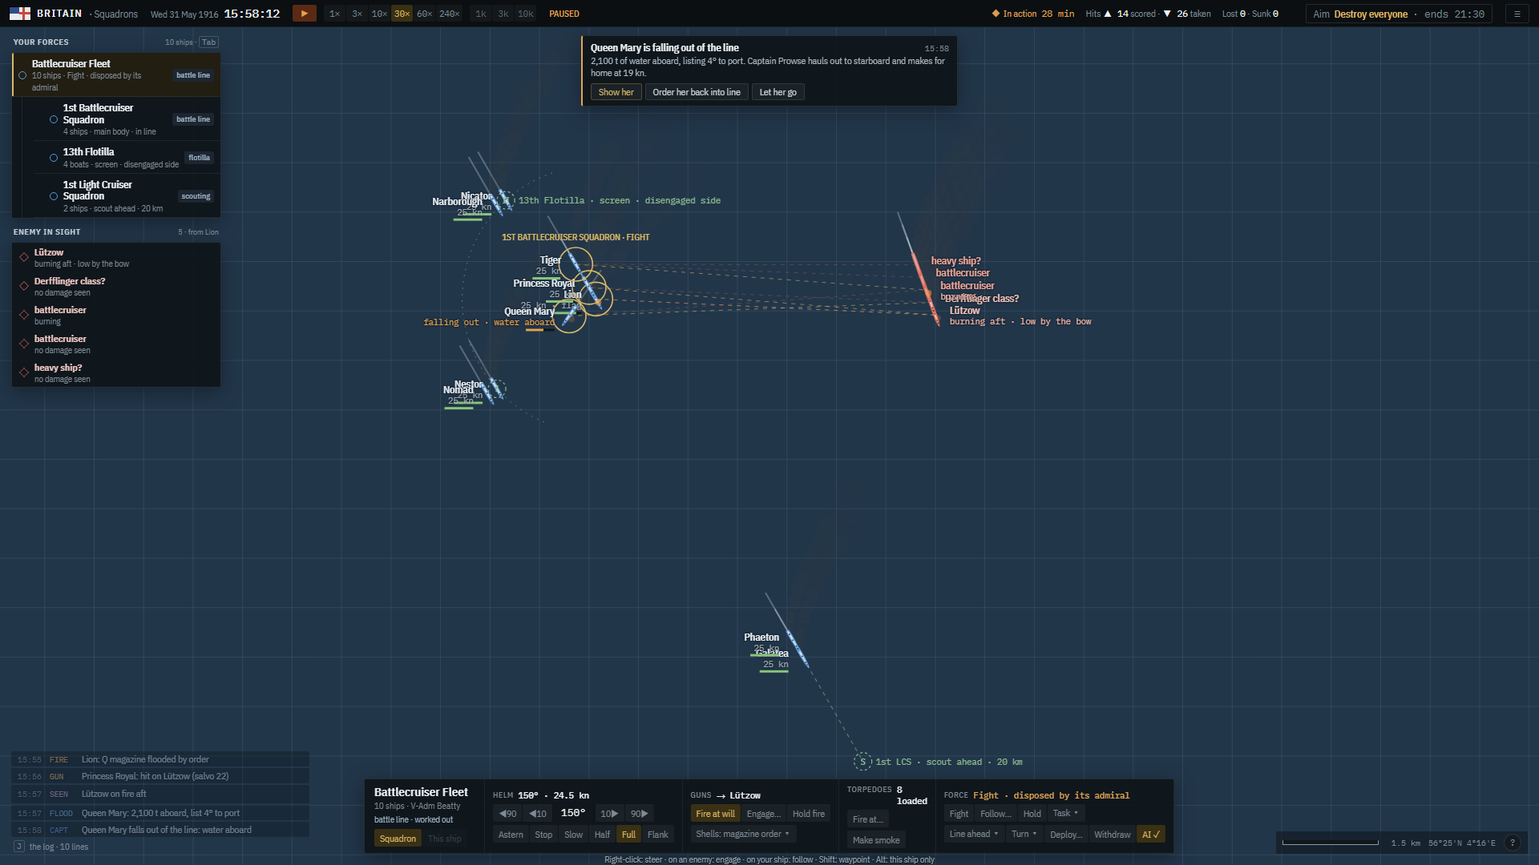
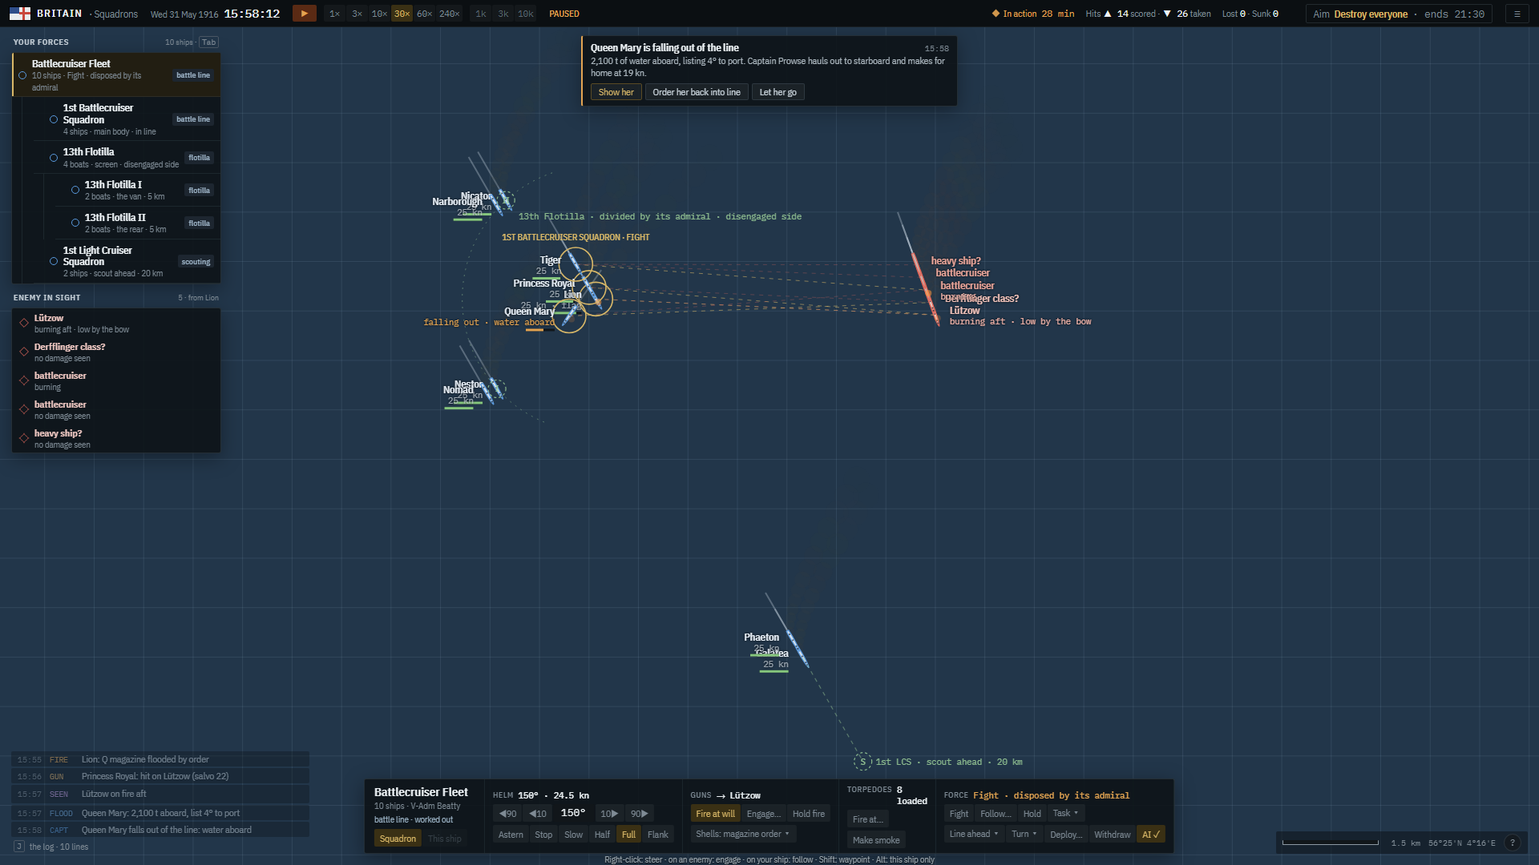
Admiral's orders O8b: the mockup's organise column and several squadrons at once
battle.html #organise (divide, divide from her, merge, new squadron of
selected, form a force with selected, leave its force), #multi (Screen with
two squadrons selected: each its station on the arc, in the order they lie);
#screen (one squadron by hand: one station on the bearing) and #chain (the
flotilla's divisions in the rail) redone.

diff --git a/docs/map-ui/battle.html b/docs/map-ui/battle.html
@@ -282,13 +282,15 @@ table.t tr.out td{color:var(--muted)}
 #help td:first-child{font-family:'Plex Mono';font-size:11px;color:var(--brass);white-space:nowrap;width:190px}
 #states{position:absolute;right:14px;top:40px;z-index:60;display:none}
 /* ---------- the admiral's orders (docs/battle/admirals-orders.md O8): the task menu, roles, the chain ---------- */
-#taskmenu{left:50%;bottom:118px;transform:translateX(-50%);display:none;flex-direction:column;width:640px;z-index:45}
+#taskmenu{left:50%;bottom:118px;transform:translateX(-50%);display:none;flex-direction:column;width:860px;z-index:45}
 #taskmenu.on{display:flex}
 #taskmenu.docked{left:400px;transform:none}
 .tmh{display:flex;align-items:center;gap:8px;padding:7px 12px 6px;border-bottom:1px solid var(--line);font-size:10px;letter-spacing:.08em;text-transform:uppercase;color:var(--muted)}
 .tmh .seg{margin-left:4px}
 .tmh .wo{margin-left:auto;text-transform:none;letter-spacing:0;font-size:10.5px}
-.tcols{display:grid;grid-template-columns:repeat(3,1fr)}
+.tcols{display:grid;grid-template-columns:repeat(3,1fr) 1.1fr}
+.tcol.org{background:rgba(255,255,255,.025)}
+.tcol.org h6{color:#9fb6c9}
 .tcol{padding:7px 10px 8px;border-right:1px solid var(--line);display:flex;flex-direction:column;gap:2px}
 .tcol:last-child{border-right:none}
 .tcol h6{margin:0 0 3px;font-size:9.5px;letter-spacing:.08em;text-transform:uppercase;color:var(--brass);font-weight:500;display:flex;gap:6px}
@@ -773,7 +775,7 @@ function strip() {
   const T = s.target && byId(s.target);
   const bells = ['Astern', 'Stop', 'Slow', 'Half', 'Full', 'Flank'];
   el.innerHTML = `
-    <div class="sid"><b>${sel.kind === 'group' ? G.name : s.name}</b><span>${sel.kind === 'group' ? `${G.ships.length} ships · ${G.admiral}` : s.cls}</span>
+    <div class="sid"><b>${sel.kind === 'group' ? (others.length ? `${G.short} + ${others.length} more` : G.name) : s.name}</b><span>${sel.kind === 'group' ? (others.length ? `${others.length + 1} squadrons · orders go to each` : `${G.ships.length} ships · ${G.admiral}`) : s.cls}</span>
       ${grp && G.role ? `<span class="role ${G.roleSet ? 'set' : ''}" data-task title="what it's for: how its admiral and its commander use it; T opens the task menu to set it">${ROLES[G.role]}${G.roleSet ? '' : ' · worked out'}</span>` : ''}
       <div class="to seg" title="Alt+order: this ship only"><button class="${grp ? 'on' : ''}" data-to="group">Squadron</button><button class="${grp ? '' : 'on'}" data-to="ship" ${sel.kind === 'group' ? 'disabled' : ''}>This ship</button></div></div>
     <div class="oc"><h5>Helm <span class="v">${s.hdg.toFixed(0).padStart(3, '0')}° · ${s.kn.toFixed(1)} kn</span></h5>
@@ -1090,11 +1092,19 @@ const TASKS = {
   patrol:    { col: 2, name: 'Patrol…',    key: 'P', verb: 'PATROL',    click: "click the line's far end", tip: 'up and down from here to there' },
   search:    { col: 2, name: 'Search…',    key: 'E', verb: 'SEARCH',    click: 'click the sea; drag the area', tip: 'a scouting line spaced by the visibility, a ladder about the point; done on contact' },
   withdraw:  { col: 2, name: 'Withdraw',   key: 'W', verb: 'WITHDRAW',  click: '', tip: 'break off and go home, away from any enemy first' },
+  // organising (O1c): not orders to the unit but changes to it, the player's as its admirals' own
+  divide:    { col: 3, name: 'Divide in two',      key: 'D', verb: 'DIVIDE',  click: '', tip: 'two divisions under its admiral: its own squadrons, each to sail and fight as one; the unit keeps its name and orders' },
+  dividefrom:{ col: 3, name: 'Divide from her…',   key: 'V', verb: 'DIVIDE FROM', click: 'click a ship of it: she and those astern of her the second division', tip: 'two divisions, split where you choose' },
+  merge:     { col: 3, name: 'Merge divisions',    key: 'M', verb: 'MERGE',   click: '', tip: 'its divisions back into one squadron, the same unit' },
+  newsq:     { col: 3, name: 'New squadron of selected', key: 'Q', verb: 'NEW SQUADRON', click: '', tip: 'the ships you selected (ctrl+click) out of their squadrons into a new one; its admiral the senior captain' },
+  formforce: { col: 3, name: 'Form a force with selected', key: 'K', verb: 'FORM', click: '', tip: 'this unit and the squadrons you selected (ctrl+click) under one admiral, this one guiding' },
+  leave:     { col: 3, name: 'Leave its force',    key: 'L', verb: 'LEAVE',   click: '', tip: "out of its force: on its own, the side's commander's to use" },
   deploy:    { col: -1, verb: 'DEPLOY', click: 'click where the line should steer, or the enemy (across his course)' },
 };
 const TASK_KEYS = Object.fromEntries(Object.entries(TASKS).filter(([, t]) => t.key).map(([k, t]) => [t.key, k]));
-const COLS = [['One of ours', 'click your ship'], ['The enemy', 'click an enemy'], ['A place', 'click the sea']];
+const COLS = [['One of ours', 'click your ship'], ['The enemy', 'click an enemy'], ['A place', 'click the sea'], ['Organise', 'this unit']];
 let lightIn = false, taskOpen = false, chainView = false, preview = null;
+let others = [];   // squadrons selected with it (ctrl+click): orders go to each, a screen spreads them on the arc
 
 /** The group a selection stands for: the group selected, else the selected ship's squadron (the first group if none). */
 function unitOf(sl) {
@@ -1107,26 +1117,36 @@ function disabledTask(k) {
   const G = unitOf(sel);
   if (k === 'attack' && G.role !== 'flotilla') return "a flotilla's: set it as one to send it in";
   if (k === 'join' && G.force) return 'a force has nothing above it to join here';
+  if ((k === 'divide' || k === 'dividefrom') && (G.force || G.ships.length < 2)) return G.force ? 'a force: divide one of its squadrons' : 'one ship';
+  if (k === 'merge' && !(G.force && groups.some(g => g.div))) return 'no divisions to merge';
+  if (k === 'formforce' && !others.length) return 'ctrl+click the squadrons to form it with';
+  if (k === 'newsq' && !others.length) return 'ctrl+click the ships';
+  if (k === 'leave' && G.id !== 'g2' && G.id !== 'g3' && G.id !== 'g4') return 'in no force';
   return '';
 }
+/** The units an order goes to: the one selected and those ctrl+clicked with it. */
+function selection() { return [unitOf(sel), ...others.map(id => groups.find(g => g.id === id)).filter(Boolean)]; }
 function taskMenu() {
   const el = $('taskmenu');
   el.classList.toggle('docked', $('dock').classList.contains('on'));
   if (!taskOpen || !sel || sel.kind === 'ship' && byId(sel.id).side) { el.classList.remove('on'); return; }
   el.classList.add('on');
   const G = unitOf(sel);
-  const cols = COLS.map(([title, how], c) => `<div class="tcol"><h6>${title} <span>${how}</span></h6>${Object.entries(TASKS).filter(([, t]) => t.col === c).map(([k, t]) => {
+  const cols = COLS.map(([title, how], c) => `<div class="tcol ${c === 3 ? 'org' : ''}"><h6>${title} <span>${how}</span></h6>${Object.entries(TASKS).filter(([, t]) => t.col === c).map(([k, t]) => {
     const why = disabledTask(k);
     return `<button data-t="${k}" ${why ? 'disabled' : ''} title="${t.tip}">${t.name}<i>${t.key}</i></button>${why ? `<div class="why">${why}</div>` : ''}`;
   }).join('')}</div>`).join('');
-  el.innerHTML = `<div class="tmh"><b style="color:var(--bright)">${G.short}</b> what it's for
+  const many = selection().length > 1;
+  el.innerHTML = `<div class="tmh"><b style="color:var(--bright)">${many ? selection().map(u => u.short).join(' + ') : G.short}</b> what it's for
       <span class="seg">${Object.keys(ROLES).map(r => `<button class="${G.role === r ? 'on' : ''}" data-r="${r}">${ROLES[r]}</button>`).join('')}</span>
       <span class="wo ${G.roleSet ? 'gold' : ''}">${G.roleSet ? 'set by you · <u data-r="auto" style="cursor:pointer">work it out</u>' : 'worked out from its ships'}</span></div>
     <div class="tcols">${cols}</div>
-    <div class="tmf">Its admiral carries it out: stations, turns, the counter-attack, when it's done, and reports how it stands. A task of yours holds the unit (yours, not the commander's) until you hand it back. Letters pick while this is open; T or Esc shuts it.</div>`;
+    <div class="tmf">${many ? `An order goes to each of the ${selection().length}: Screen spreads them over the arc, one station each. ` : ''}Its admiral carries an order out: stations, turns, the counter-attack, when it's done, and reports how it stands. A task of yours holds the unit (yours, not the commander's) until you hand it back. Organising changes the unit itself, as its admirals may. Letters pick while this is open; T or Esc shuts it.</div>`;
   for (const b of el.querySelectorAll('[data-t]')) b.onclick = () => {
     armed = b.dataset.t; taskOpen = false;
-    if (armed === 'withdraw') { tick('sig', `${G.short}: withdraw, home`, G.ships[0]); armed = null; }
+    const done = { withdraw: 'withdraw, home', divide: 'divided in two divisions, I and II', merge: 'its divisions merged', newsq: 'a new squadron of the ships selected',
+      formforce: `a force with ${others.length} more, it guiding`, leave: 'out of its force' }[armed];
+    if (done) { tick('sig', `${G.short}: ${done}`, G.ships[0]); armed = null; }
     strip();
   };
   for (const b of el.querySelectorAll('[data-r]')) b.onclick = () => {
@@ -1144,7 +1164,11 @@ function taskVerb(p, s, me) {
   if (t.col === 0) {
     if (!s || s.side) { preview = null; return `<b class="amb">${t.verb}</b> <span class="dim">${t.click}</span>`; }
     const U = unitOf({ kind: 'ship', id: s.id });
-    if (armed === 'screen') { preview = { kind: 'screen', on: s.id }; return `<b class="okc">SCREEN</b> ${U.short} · 5 km · split 4 points · <span class="amb">disengaged side</span>`; }
+    if (armed === 'screen') {
+      const n = selection().length;
+      preview = { kind: 'screen', on: s.id };
+      return `<b class="okc">SCREEN</b> ${U.short} · 5 km · ${n === 1 ? 'on the bearing' : n === 2 ? '2 squadrons, either bow' : `${n} squadrons over the arc`} · <span class="amb">disengaged side</span>`;
+    }
     if (armed === 'scout') { preview = { kind: 'scout', on: s.id }; return `<b class="okc">SCOUT</b> for ${U.short} · 20 km ahead`; }
     preview = null;
     return `<b class="okc">${t.verb}</b> ${armed === 'follow' ? s.name : U.short}${armed === 'cover' ? ' · 9 km toward the threat' : ''}`;
@@ -1167,10 +1191,11 @@ function taskVerb(p, s, me) {
 /** A screen's two divisions' stations about the ship it screens: 45° either side of the bearing it screens on, 5 km
  *  out. Against the 1st Scouting Group (no match for it, its admiral judges) the bearing is away from him: the
  *  disengaged side, a division at the van and one at the rear. */
-function screenStations(onId) {
+function screenStations(onId, n = 2) {
   const T = byId(onId), E = byId(5);
   const axis = Math.atan2(E.x - T.x, -(E.y - T.y)) / deg + 180;
-  return [-45, 45].map(off => { const b = (axis + off) * deg; return { x: T.x + Math.sin(b) * 5000, y: T.y - Math.cos(b) * 5000, b: axis + off }; });
+  return Array.from({ length: n }, (_, i) => n === 1 ? 0 : -45 + 90 * i / (n - 1))
+    .map(off => { const b = (axis + off) * deg; return { x: T.x + Math.sin(b) * 5000, y: T.y - Math.cos(b) * 5000, b: axis + off }; });
 }
 function ghost(x, y, text, col) {
   cx.strokeStyle = col; cx.setLineDash([3, 3]); cx.lineWidth = 1.2; cx.beginPath(); cx.arc(SX(x), SY(y), 11, 0, 7); cx.stroke(); cx.setLineDash([]);
@@ -1179,18 +1204,27 @@ function ghost(x, y, text, col) {
 /** Orders as marks on the map: a screen's arc and its divisions' stations, a scout's station, a deploy's line. */
 function taskMarks() {
   const green = 'rgba(159,209,154,.85)', faint = 'rgba(159,209,154,.45)';
-  const screenFor = (G, onId, note) => {
-    const st = screenStations(onId), T = byId(onId);
+  // a screen's stations on the arc: one a unit (screens: [{ unit, label }]), each dashed from where it is
+  const screenFor = (screens, onId, note) => {
+    const st = screenStations(onId, screens.length), T = byId(onId), n = st.length;
     cx.strokeStyle = faint; cx.setLineDash([2, 6]); cx.lineWidth = 1;
-    cx.beginPath(); cx.arc(SX(T.x), SY(T.y), 5000 / MPP, (st[0].b - 90 - 25) * deg, (st[1].b - 90 + 25) * deg); cx.stroke(); cx.setLineDash([]);
+    cx.beginPath(); cx.arc(SX(T.x), SY(T.y), 5000 / MPP, (st[0].b - 90 - 25) * deg, (st[n - 1].b - 90 + 25) * deg); cx.stroke(); cx.setLineDash([]);
     st.forEach((p, i) => {
-      ghost(p.x, p.y, i ? 'II' : 'I', green);
-      const from = byId(G.ships[i ? G.ships.length - 1 : 0]);
+      ghost(p.x, p.y, screens[i].label, green);
+      const from = byId(screens[i].unit.ships[0]);
       cx.strokeStyle = faint; cx.setLineDash([5, 5]); cx.beginPath(); cx.moveTo(SX(from.x), SY(from.y)); cx.lineTo(SX(p.x), SY(p.y)); cx.stroke(); cx.setLineDash([]);
+      if (n > 1 && screens[i].name) { cx.font = '10px "Plex Mono"'; cx.fillStyle = green; cx.fillText(screens[i].name, SX(p.x) + 15, SY(p.y) - 8); }
     });
-    if (note) { cx.font = '10.5px "Plex Mono"'; cx.fillStyle = green; cx.fillText(note, SX(st[1].x) + 16, SY(st[1].y) + 4); }
+    if (note) { cx.font = '10.5px "Plex Mono"'; cx.fillStyle = green; cx.fillText(note, SX(st[n - 1].x) + 16, SY(st[n - 1].y) + 24); }
   };
-  if (preview && preview.kind === 'screen') screenFor(unitOf(sel), preview.on, 'disengaged side: no match for the 1st SG · van and rear');
+  if (preview && preview.kind === 'screen') {
+    // the stations taken in the order the screens lie about the bearing (the sim's rule: none crosses another)
+    const T = byId(preview.on), E = byId(5), axis = Math.atan2(E.x - T.x, -(E.y - T.y)) / deg + 180;
+    const lies = u => { const a = byId(u.ships[0]); return ((Math.atan2(a.x - T.x, -(a.y - T.y)) / deg - axis) % 360 + 540) % 360 - 180; };
+    const sel2 = selection().sort((a, b) => lies(a) - lies(b));
+    screenFor(sel2.map((u, i) => ({ unit: u, label: String(i + 1), name: u.short })), preview.on,
+      sel2.length === 1 ? 'one station, on the bearing (yours, by hand: divide it first for both bows)' : 'disengaged side: no match for the 1st SG · van and rear');
+  }
   if (preview && preview.kind === 'scout') { const T = byId(preview.on), b = T.hdg * deg; ghost(T.x + Math.sin(b) * 20000, T.y - Math.cos(b) * 20000, 'S', green); }
   if (preview && preview.kind === 'deploy') {
     const L = byId(1), b = preview.course * deg;
@@ -1204,7 +1238,7 @@ function taskMarks() {
     cx.fillText(`the line of battle, ${String(preview.course).padStart(3, '0')}° · formed in ~14 min`, SX(L.x + Math.sin(b) * 6400) + 10, SY(L.y - Math.cos(b) * 6400));
   }
   if (chainView) {   // what each squadron of the force does, and where its station is
-    screenFor(groups.find(g => g.id === 'g2'), 1, '13th Flotilla · screen · disengaged side');
+    screenFor(groups.filter(g => g.div).map(d => ({ unit: d, label: d.short })), 1, '13th Flotilla · divided by its admiral · disengaged side');
     const L = byId(1), b = L.hdg * deg, sx = L.x + Math.sin(b) * 20000, sy = L.y - Math.cos(b) * 20000, c = byId(14);
     ghost(sx, sy, 'S', green);
     cx.strokeStyle = faint; cx.setLineDash([5, 5]); cx.beginPath(); cx.moveTo(SX(c.x), SY(c.y)); cx.lineTo(SX(sx), SY(sy)); cx.stroke(); cx.setLineDash([]);
@@ -1214,20 +1248,25 @@ function taskMarks() {
 /** The rail with the light forces in: the chain of command, each unit with its role and its task. */
 function railChain() {
   const F = groups.find(g => g.force), on = id => sel && sel.kind === 'group' && sel.id === id;
-  const row = (G, sub) => `<div class="gh ${on(G.id) ? 'sel' : ''}" data-g="${G.id}" ${sub ? 'style="padding-left:20px"' : ''}><span class="sym"></span>
+  const row = (G, sub) => `<div class="gh ${on(G.id) || others.includes(G.id) ? 'sel' : ''}" data-g="${G.id}" ${sub ? 'style="padding-left:20px"' : ''}><span class="sym"></span>
       <div class="nm"><b>${G.name}</b><span>${G.ships.length} ${G.role === 'flotilla' ? 'boats' : 'ships'} · ${G.taskLine || 'in line'}</span></div>
       <span class="chip role ${G.roleSet ? 'set' : ''}" title="${G.roleSet ? 'set by you' : 'worked out from its ships'}">${ROLES[G.role]}</span></div>`;
   let h = `<div class="rh"><b>Your forces</b><span class="r">${ships.filter(s => !s.side).length} ships · <span class="kbd">Tab</span></span></div>
     <div class="glass grp">${row(F, false)}<div class="tree">`;
-  for (const G of groups.filter(g => !g.force && !g.div)) {
+  for (const G of groups.filter(g => !g.force && !g.div && !g.alone)) {
     h += row(G, true);
     if (chainView && G.id === 'g2') h += `<div class="tree">${groups.filter(g => g.div).map(d => row(d, true)).join('')}</div>`;
   }
-  h += '</div></div><div class="rh" style="margin-top:4px"><b>Enemy in sight</b><span class="r">5 · from Lion</span></div><div class="glass grp">';
+  h += '</div>' + groups.filter(g => g.alone).map(g => row(g, false)).join('');
+  h += '</div><div class="rh" style="margin-top:4px"><b>Enemy in sight</b><span class="r">5 · from Lion</span></div><div class="glass grp">';
   for (const s of ships.filter(s => s.side === 1))
     h += `<div class="crow" data-s="${s.id}"><span class="sym ho ${known(s) ? '' : 'sus'}"></span><div class="nm"><b>${label(s)}</b><span class="s">${s.seen.length ? s.seen.join(' · ') : 'no damage seen'}</span></div></div>`;
   $('rail').innerHTML = h + '</div>';
-  for (const e of $('rail').querySelectorAll('[data-g]')) e.onclick = () => select({ kind: 'group', id: e.dataset.g });
+  for (const e of $('rail').querySelectorAll('[data-g]')) e.onclick = ev => {
+    const id = e.dataset.g;
+    if (ev.ctrlKey && sel && sel.kind === 'group' && id !== sel.id) { others = others.includes(id) ? others.filter(o => o !== id) : [...others, id]; refresh(); }
+    else { others = []; select({ kind: 'group', id }); }
+  };
   for (const e of $('rail').querySelectorAll('[data-s]')) e.onclick = () => select({ kind: 'ship', id: +e.dataset.s });
 }
 /** The light forces of the Battlecruiser Fleet for the task states: the 13th Flotilla and the 1st LCS, in a force with
@@ -1252,11 +1291,17 @@ function addLight(chain) {
     role: 'scout', auto: 'scout', roleSet: false, taskLine: chain ? 'scout ahead · 20 km' : '' });
   groups.push({ id: 'f', force: true, name: 'Battlecruiser Fleet', short: 'BCF', side: 0, ships: [1, 2, 3, 4, 10, 11, 12, 13, 14, 15], admiral: 'V-Adm Beatty', formation: 'Line abreast', spacing: 5000,
     role: 'heavy', auto: 'heavy', roleSet: false, taskLine: chain ? 'Fight · disposed by its admiral' : '' });
+  if (!chain) {   // the 1st Flotilla, on its own (no force's): for screening with the 13th
+    ['Acheron', 'Ariel', 'Attack', 'Hydra'].forEach((n, i) => put(16 + i, n, 'I class (1911)', 'destroyer', 75, ...at(L.hdg + 160, 2600 + i * 400)));
+    groups.push({ id: 'g4', alone: true, name: '1st Flotilla', short: '1st Flotilla', side: 0, ships: [16, 17, 18, 19], admiral: 'Capt. Roper', formation: 'Line abreast', spacing: 400,
+      role: 'flotilla', auto: 'flotilla', roleSet: false, taskLine: '' });
+  }
   if (chain) groups.push(
     { id: 'g2a', div: true, name: '13th Flotilla I', short: 'I', side: 0, ships: [10, 11], admiral: '', role: 'flotilla', auto: 'flotilla', roleSet: false, taskLine: 'the van · 5 km' },
     { id: 'g2b', div: true, name: '13th Flotilla II', short: 'II', side: 0, ships: [12, 13], admiral: '', role: 'flotilla', auto: 'flotilla', roleSet: false, taskLine: 'the rear · 5 km' });
 }
 function removeLight() {
+  others = [];
   if (!lightIn) return;
   lightIn = false;
   for (let i = ships.length - 1; i >= 0; i--) if (ships[i].id >= 10) ships.splice(i, 1);
@@ -1272,14 +1317,16 @@ function taskState(h) {
   cardOpen = false;   // the card shut (V): the map and the orders
   if (h === 'tasks') { select({ kind: 'group', id: 'g1' }); taskOpen = true; }
   if (h === 'screen') { camX = L.x + 2500; camY = L.y + 700; select({ kind: 'group', id: 'g2' }); armed = 'screen'; }
+  if (h === 'multi') { camX = L.x + 2500; camY = L.y + 700; select({ kind: 'group', id: 'g2' }); others = ['g4']; armed = 'screen'; }
+  if (h === 'organise') { select({ kind: 'group', id: 'g2' }); others = ['g4']; taskOpen = true; }
   if (h === 'deploy') { camX = L.x + 5500; camY = L.y + 1500; select({ kind: 'group', id: 'f' }); armed = 'deploy'; }
   if (h === 'chain') { MPP = 30; camX = L.x + 6500; camY = L.y + 5000; select({ kind: 'group', id: 'f' }); chainView = true; }
-  cardOpen = false; card(); strip();
+  cardOpen = false; card(); rail(); strip();
   topBar(); strip();
-  if (h === 'screen' || h === 'deploy') {   // the cursor where the order would be given: over Lion; over the enemy van
-    const T = h === 'screen' ? L : byId(5), p = { x: SX(T.x), y: SY(T.y) }, G = unitOf(sel);
+  if (h === 'screen' || h === 'multi' || h === 'deploy') {   // the cursor where the order would be given: over Lion; over the enemy van
+    const T = h === 'deploy' ? byId(5) : L, p = { x: SX(T.x), y: SY(T.y) }, G = unitOf(sel);
     const verb = $('verb');
-    verb.innerHTML = `<span class="dim">${G.short}:</span> ${taskVerb(p, T, byId(G.ships[0]))}`;
+    verb.innerHTML = `<span class="dim">${others.length ? `${G.short} + ${others.length}` : G.short}:</span> ${taskVerb(p, T, byId(G.ships[0]))}`;
     verb.style.display = 'block'; verb.style.left = p.x + 16 + 'px'; verb.style.top = p.y - 22 + 'px';
   }
 }
@@ -1298,12 +1345,12 @@ function frame(t) {
 }
 
 // ------------------------------------------------------------------ states for screenshots: battle.html#ship, #enemy, #group, #pinned, #order, #log, #menu, #brief, #result, #dev, #help,
-// and the admiral's orders' (O8): #tasks, #screen, #deploy, #chain
+// and the admiral's orders' (O8, O8b): #tasks, #screen, #multi, #organise, #deploy, #chain
 function state(h) {
   for (const o of document.querySelectorAll('.shade.on')) o.classList.remove('on');
   $('dev').classList.remove('on'); $('logDrawer').classList.remove('open'); armed = null; pinned = []; orders.length = 0; MPP = 15; camX = 1900; camY = -650; sel = null;
   taskOpen = false; preview = null; chainView = false; removeLight(); $('verb').style.display = 'none';
-  if (['tasks', 'screen', 'deploy', 'chain'].includes(h)) { taskState(h); return; }
+  if (['tasks', 'screen', 'multi', 'organise', 'deploy', 'chain'].includes(h)) { taskState(h); return; }
   if (h === 'ship' || h === 'order' || h === 'arm') select({ kind: 'ship', id: 1 });
   if (h === 'enemy') select({ kind: 'ship', id: 5 });
   if (h === 'group') select({ kind: 'group', id: 'g1' });

diff --git a/docs/battle/admirals-orders.md b/docs/battle/admirals-orders.md
@@ -283,6 +283,24 @@ and order):
 For the review: the column names and keys, Station's drag, whether the menu sits above the strip or at the cursor, and
 the marks' look (placeholder green). The port (O9) follows the user's notes.
 
+### O8b The mockup again: organising, and several squadrons at once (2026-10-23, for review)
+
+After decision 6; `battle.html` `#organise` and `#multi` (screenshots `png/battle-organise.png`, `-multi`), `#screen` and
+`#chain` redone:
+
+- **`#organise`: the task menu's fourth column, Organise** (set apart, a lighter ground: these change the unit, they
+  aren't orders to it): Divide in two (D), Divide from her… (V: click a ship of it; she and those astern the second
+  division), Merge divisions (M), New squadron of selected (Q), Form a force with selected (K), Leave its force (L),
+  each greyed with its reason when it doesn't apply ("no divisions to merge").
+- **Several squadrons selected:** ctrl+click a squadron in the rail (or on the map) adds it to the selection; the strip
+  says "13th Flotilla + 1 more · 2 squadrons · orders go to each", the menu's head names them all, and its foot says
+  an order goes to each.
+- **`#multi`: Screen with two squadrons selected:** "SCREEN 1st BCS · 5 km · 2 squadrons, either bow · disengaged side";
+  the map shows each squadron's station on the arc, numbered and named, taken in the order they lie (the sim's rule).
+- **`#screen`: one squadron, by hand:** one station on the bearing, "yours, by hand: divide it first for both bows".
+- **`#chain`:** the flotilla divided by its own admiral, its divisions I and II under it in the rail ("the van · 5 km",
+  "the rear · 5 km").
+
 ## The steps
 
 | Step | What | Status |
@@ -296,7 +314,7 @@ the marks' look (placeholder green). The port (O9) follows the user's notes.
 | **O6** | A unit's role: worked out, or set by the player; the commander and the map read it (decision 4) | **done 2026-10-23** |
 | **O7** | The chain of command: a force's admiral disposes his members by role, one implementation with the commander's (decision 3) | **done 2026-10-23** |
 | **O8** | The mockup: `docs/map-ui/battle.html` `#tasks`, `#screen`, `#deploy`, `#chain`: the task menu, the role, the cursor's verbs, a screen's stations, a deploy's line, the chain in the rail | **done 2026-10-23**, for review |
-| **O8b** | The mockup again: the organise column (new squadron, divide, merge, form a force, leave) and Screen with several squadrons selected | |
+| **O8b** | The mockup again: the organise column (new squadron, divide, merge, form a force, leave) and Screen with several squadrons selected | **done 2026-10-23**, for review |
 | **O9** | The port: the task menu and its picks, the cursor's verbs, the smart verb by role, the formation column's manoeuvres; the snapshot's stations and the map's task marks | after O8 |
 | **O10** | Shaping by drag (a screen's distance and sector), orders as editable objects, the radial menu | later |
 
